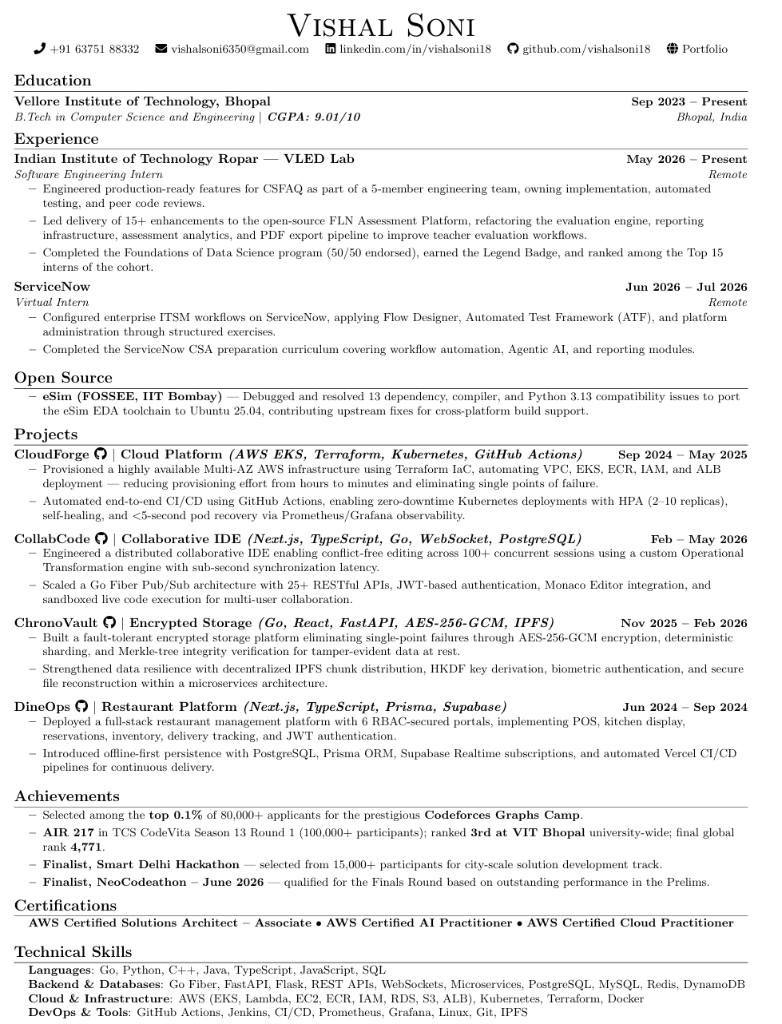
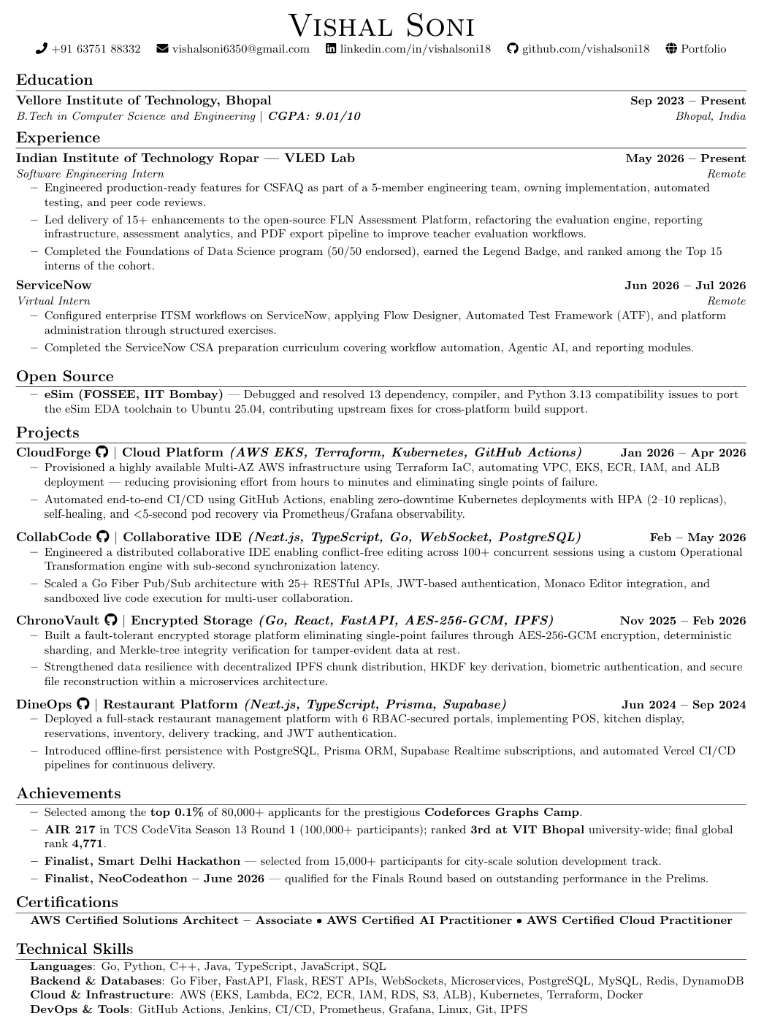
Make CloudForge a flagship project and position it before CollabCode side-by-side, and update resume preview image

Changed region(s): [[0.0, 0.0, 0.9575, 1.0], [0.6486, 0.0312, 0.9266, 0.0625]]

diff --git a/src/components/Projects.jsx b/src/components/Projects.jsx
@@ -48,7 +48,7 @@ const ProjectCard = ({ project, onClick, index }) => {
             whileInView={{ opacity: 1, y: 0 }}
             transition={{ duration: 0.5, delay: index * 0.1 }}
             viewport={{ once: true }}
-            className={`relative w-full ${project.isFlagship ? 'md:w-[800px] md:min-h-[500px]' : 'max-w-sm md:w-[350px] h-[480px]'} rounded-xl bg-black/40 border ${project.isFlagship ? 'border-yellow-500/30' : 'border-white/10'} cursor-pointer group perspective-1000`}
+                        className={`relative w-full ${project.isFlagship ? 'md:w-[580px] md:min-h-[500px]' : 'max-w-sm md:w-[350px] h-[480px]'} rounded-xl bg-black/40 border ${project.isFlagship ? 'border-yellow-500/30' : 'border-white/10'} cursor-pointer group perspective-1000`}
         >
             {/* Neon Glow */}
             <div
@@ -312,6 +312,35 @@ const Projects = () => {
 
     const projects = [
         {
+            id: "PRJ-005",
+            title: "CloudForge",
+            shortDesc: "Provisioned a highly available Multi-AZ AWS infrastructure using Terraform IaC, automating VPC, EKS, ECR, IAM, and ALB deployment.",
+            infra: "Auto-Scaling AWS EKS Cluster + GitHub Actions CI/CD.",
+            icon: <Layers className="w-8 h-8 text-yellow-500" />,
+            description: "Provisioned a highly available Multi-AZ AWS infrastructure using Terraform IaC, automating VPC, EKS, ECR, IAM, and ALB deployment - reducing provisioning effort from hours to minutes and eliminating single points of failure. Automated end-to-end CI/CD using GitHub Actions, enabling zero-downtime Kubernetes deployments with HPA (2-10 replicas), self-healing, and <5-second pod recovery via Prometheus/Grafana observability.",
+            metricsDisclaimer: "Metrics derived from HPA behavior under synthetic load testing.",
+            engineeringNotes: "Focused on recovery over happy-path. Tested failures extensively by simulating node termination and pod deletion to verify scheduling reliability. Implemented Prometheus/Grafana alerts.",
+            githubUrl: "https://github.com/vishalsoni18/CloudForge",
+            tech: ["AWS EKS", "Terraform", "Kubernetes", "GitHub Actions", "Prometheus", "Grafana", "Docker", "AWS ECR", "AWS IAM", "ALB"],
+            isFlagship: true,
+            stats: [
+                { label: "SCALING", value: "HPA / Auto" },
+                { label: "STRATEGY", value: "Rolling Update" },
+                { label: "RESILIENCE", value: "Self-Healing" },
+                { label: "PROVISIONING", value: "Terraform IaC" }
+            ],
+            validationSteps: [
+                "Pod deletion -> Verify auto restart",
+                "Node termination -> Verify pod scheduling on healthy nodes",
+                "Load spikes -> Verify HPA triggers scaling"
+            ],
+            protocols: [
+                "Infrastructure provisioning using reusable Terraform modules",
+                "Secure zero-downtime deployments using Kubernetes HPA",
+                "Keyless OIDC integrations for GitHub Actions deploy pipelines"
+            ]
+        },
+        {
             id: "PRJ-000",
             title: "CollabCode",
             shortDesc: "A distributed collaborative IDE enabling conflict-free editing across 100+ concurrent sessions using a custom Operational Transformation engine with sub-second synchronization latency.",
@@ -432,33 +461,6 @@ const Projects = () => {
                 "Connection monitoring and automatic JSON database fallback triggers",
                 "Real-time kitchen display system updates via server-sent events",
                 "Enterprise role-based access control and router guarding"
-            ]
-        },
-        {
-            id: "PRJ-005",
-            title: "CloudForge",
-            shortDesc: "Provisioned a highly available Multi-AZ AWS infrastructure using Terraform IaC, automating VPC, EKS, ECR, IAM, and ALB deployment.",
-            infra: "Auto-Scaling AWS EKS Cluster + GitHub Actions CI/CD.",
-            icon: <Layers className="w-8 h-8 text-yellow-600" />,
-            description: "Provisioned a highly available Multi-AZ AWS infrastructure using Terraform IaC, automating VPC, EKS, ECR, IAM, and ALB deployment - reducing provisioning effort from hours to minutes and eliminating single points of failure. Automated end-to-end CI/CD using GitHub Actions, enabling zero-downtime Kubernetes deployments with HPA (2-10 replicas), self-healing, and <5-second pod recovery via Prometheus/Grafana observability.",
-            metricsDisclaimer: "Metrics derived from HPA behavior under synthetic load testing.",
-            engineeringNotes: "Focused on recovery over happy-path. Tested failures extensively by simulating node termination and pod deletion to verify scheduling reliability. Implemented Prometheus/Grafana alerts.",
-            githubUrl: "https://github.com/vishalsoni18/CloudForge",
-            tech: ["AWS EKS", "Terraform", "Kubernetes", "GitHub Actions", "Prometheus", "Grafana", "Docker", "AWS ECR", "AWS IAM", "ALB"],
-            stats: [
-                { label: "SCALING", value: "HPA / Auto" },
-                { label: "STRATEGY", value: "Rolling Update" },
-                { label: "RESILIENCE", value: "Self-Healing" }
-            ],
-            validationSteps: [
-                "Pod deletion -> Verify auto restart",
-                "Node termination -> Verify pod scheduling on healthy nodes",
-                "Load spikes -> Verify HPA triggers scaling"
-            ],
-            protocols: [
-                "Infrastructure provisioning using reusable Terraform modules",
-                "Secure zero-downtime deployments using Kubernetes HPA",
-                "Keyless OIDC integrations for GitHub Actions deploy pipelines"
             ]
         }
     ];
